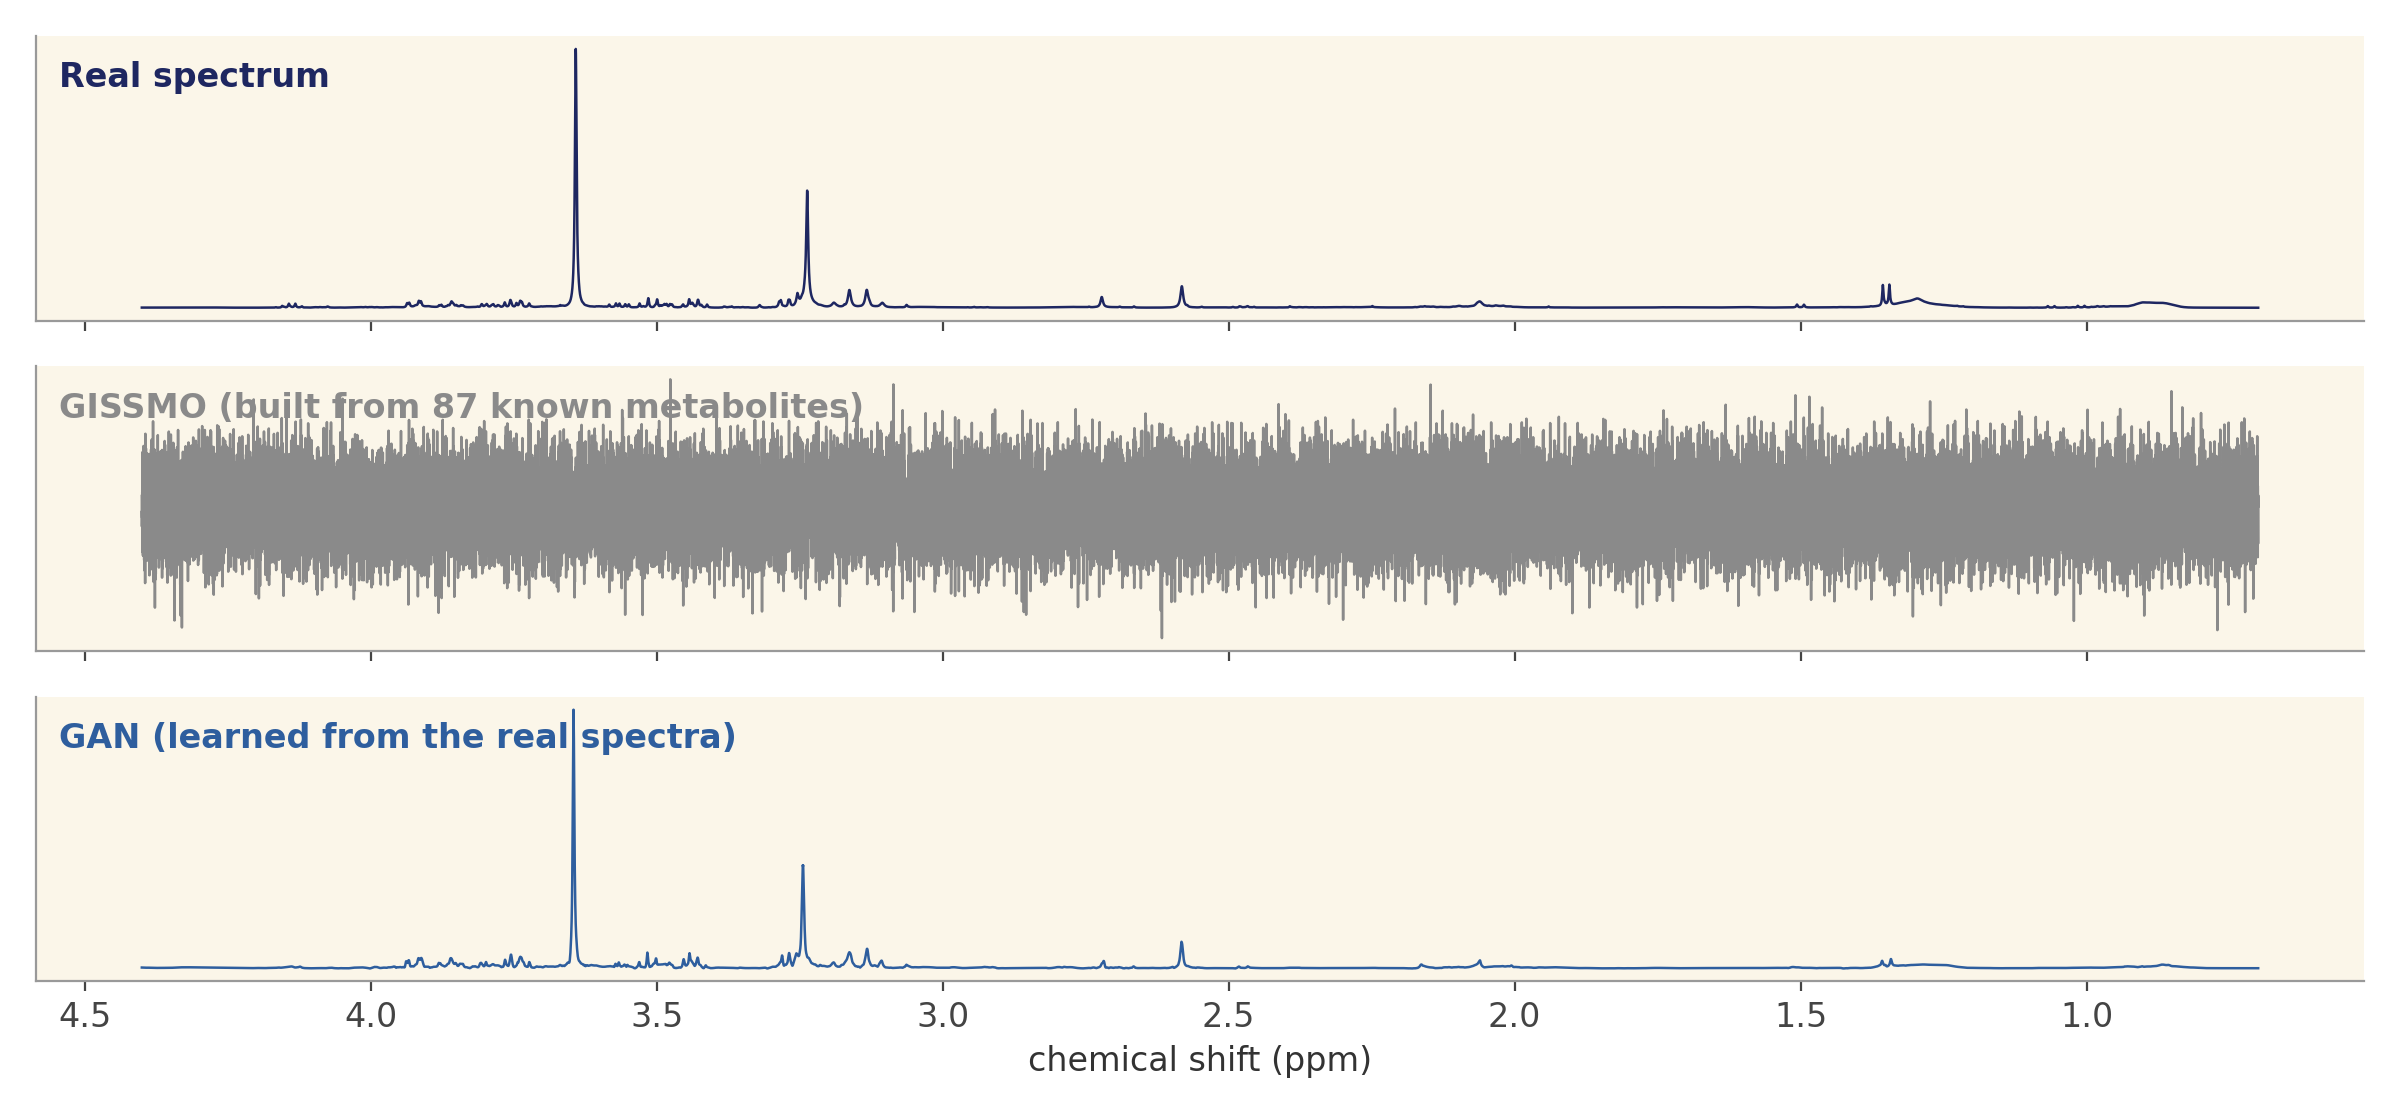
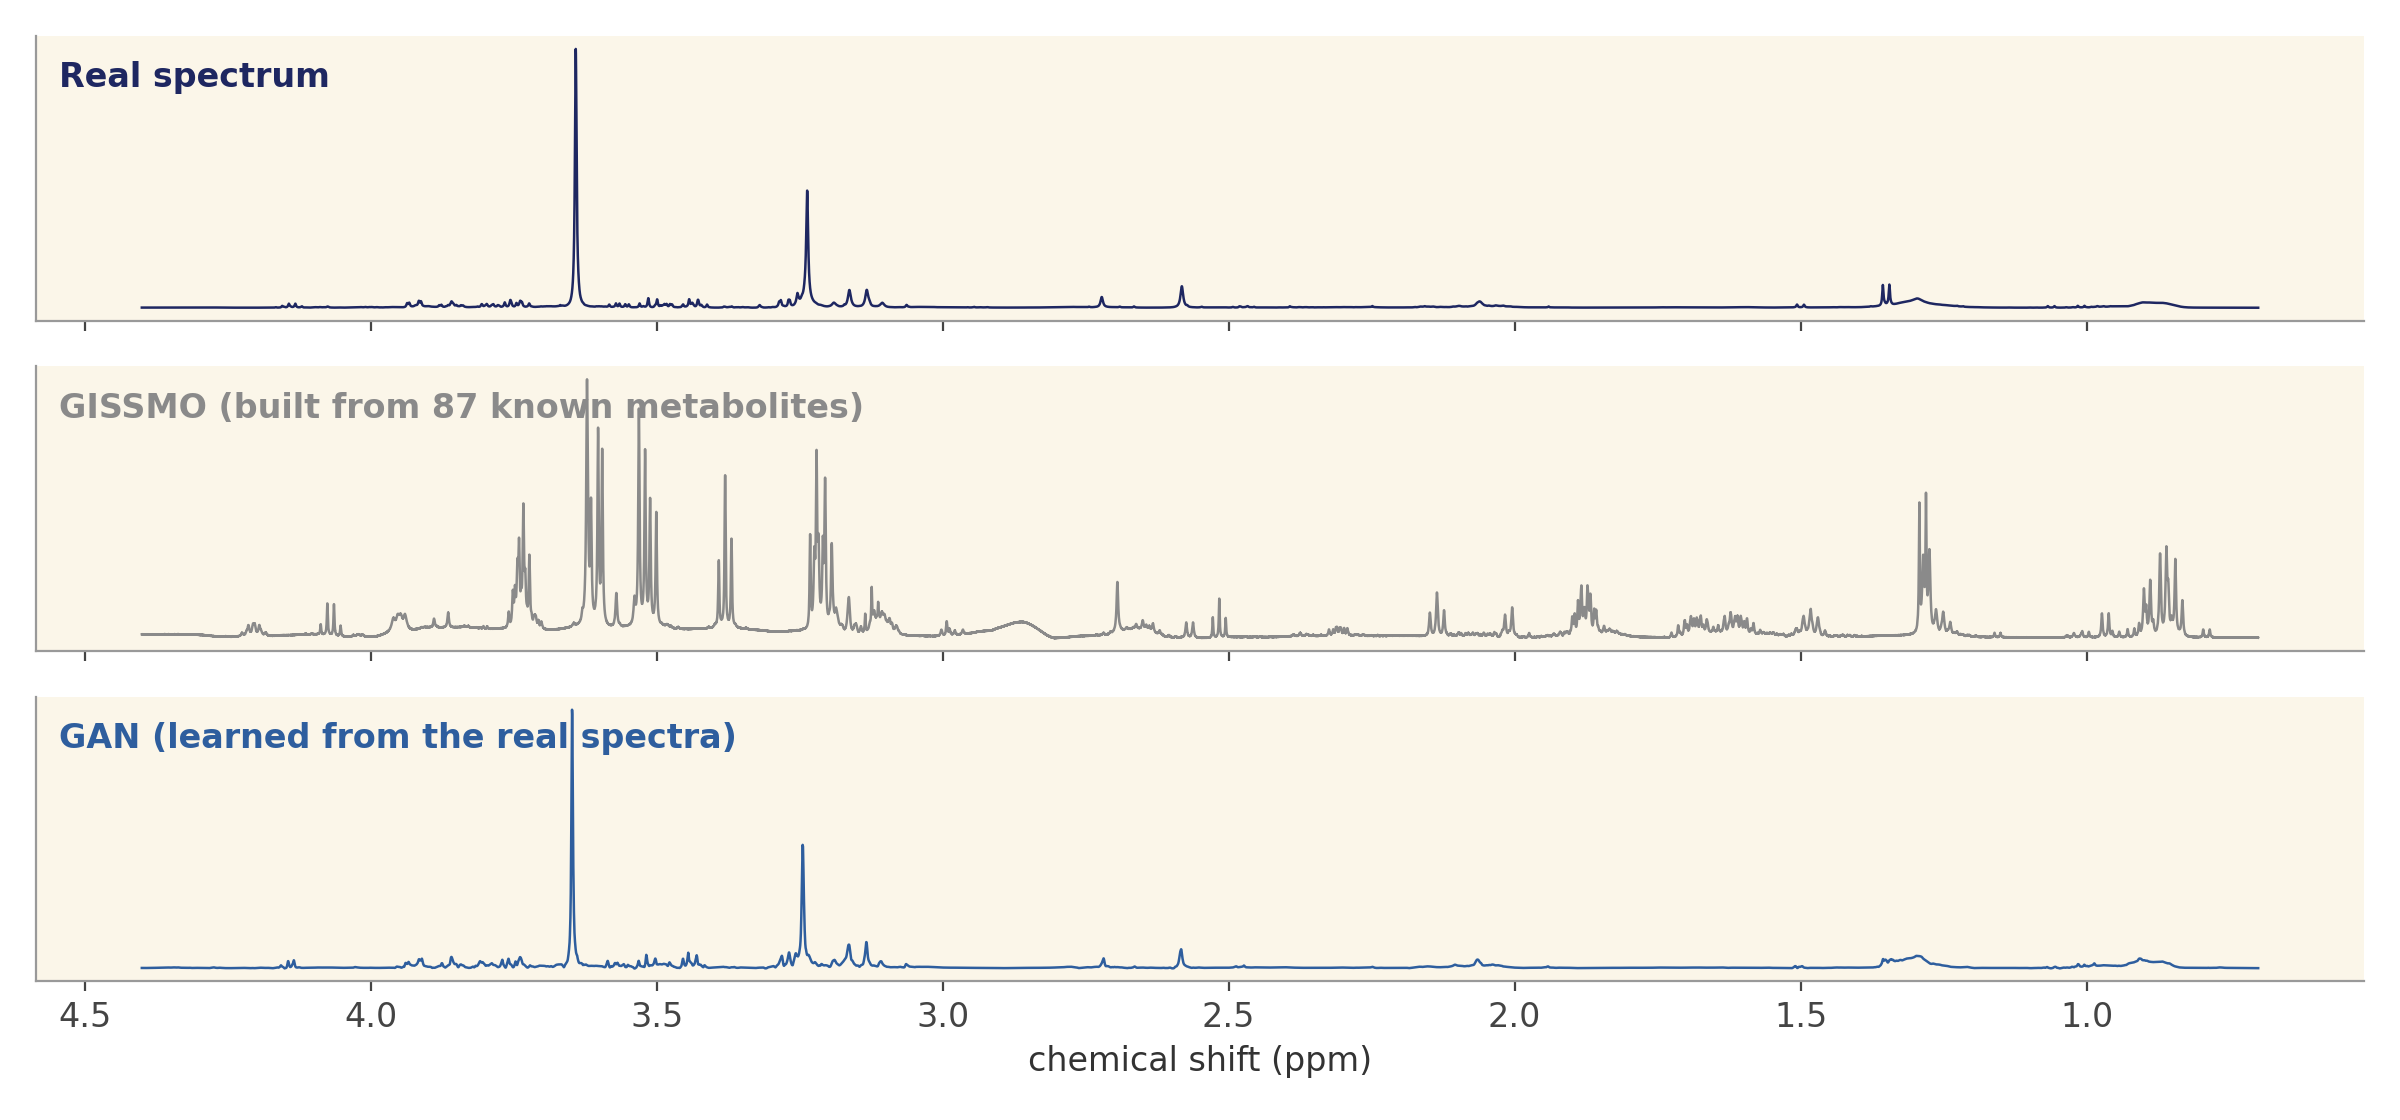
Fix a silent np.interp bug that made every GISSMO synthetic spectrum pure noise
shift() in generate_synthetic_corpus.py called np.interp on the project's
descending ppm axis (10.0 -> -0.5). np.interp requires an increasing xp and does
not check; it returned all zeros, even for a zero shift. Each synthetic spectrum
was therefore the added Gaussian noise rescaled to full height.

Caught while picking a representative sample for the PI figure: every GISSMO
spectrum had a signal-to-noise ratio of 4-5, against 185-7,200 for the GAN.

Fix verified: a +0.02 ppm shift now moves a peak by exactly +0.02 ppm with its
height preserved. Set regenerated and re-validated.

                        before (noise)   corrected   GAN v1
  discriminator AUC        1.000          1.000      0.945
  Wasserstein / IQR         9.72           4.28       1.19
  CH3->CH separation       2.781          2.845      2.788 (real 2.788)

The G3 verdict is unchanged: the corrected set still fails 5.2. But the earlier
figures, including "landmarks exact in joint mode", were measurements of noise
and are withdrawn in the G3, GAN and consolidation write-ups. The GAN's advantage
over the basis is 3.6x in distributional distance, not the 8x stated in a54cff4.
The coverage result, R2 = 0.25, came from a direct NNLS fit that never calls
shift() and stands.

This is the same defect class as the original axis bug: a descending ppm axis
handled by code that assumed an ascending one, failing silently.

The PI figure now shows the median signal-to-noise sample of each set, so
[…]

diff --git a/code/plotting/fig_pi_2026_09_25.py b/code/plotting/fig_pi_2026_09_25.py
@@ -109,12 +109,21 @@ plt.close(fig)
 
 # ---- D: what synthetic spectra look like ---------------------------------
 ppm = np.load(ROOT / "rebuild/pretrain/ppm_axis.npy")
+# show the MEDIAN signal-to-noise sample of each set, not an arbitrary index,
+# so neither route is shown at its best or worst
+_m, _q = (ppm <= 4.4) & (ppm >= 0.7), ppm > 9.5
+def median_snr(path):
+    S = np.load(path, mmap_mode="r")[:200]
+    snr = [np.abs(v[_m]).max() / (v[_q].std() + 1e-12) for v in S]
+    return int(np.argsort(snr)[len(snr) // 2])
+pick_g = median_snr(ROOT / "rebuild/pretrain/synthetic/gissmo_joint_fixed.npy")
+pick_n = median_snr(ROOT / "rebuild/pretrain/synthetic/gan.npy")
 X = np.load(ROOT / "rebuild/pretrain/corpus_train.npy", mmap_mode="r")
 sets = [("Real spectrum", np.asarray(X[4321], dtype=np.float32), INK),
         ("GISSMO (built from 87 known metabolites)",
-         np.load(ROOT / "rebuild/pretrain/synthetic/probe_lip.npy")[3], GREY),
+         np.load(ROOT / "rebuild/pretrain/synthetic/gissmo_joint_fixed.npy")[pick_g], GREY),
         ("GAN (learned from the real spectra)",
-         np.load(ROOT / "rebuild/pretrain/synthetic/gan.npy")[7], BLUE)]
+         np.load(ROOT / "rebuild/pretrain/synthetic/gan.npy")[pick_n], BLUE)]
 m = (ppm <= 4.4) & (ppm >= 0.7)
 fig, axs = plt.subplots(3, 1, figsize=(12, 5.6), sharex=True)
 for ax, (t, y, c) in zip(axs, sets):

diff --git a/code/analysis/synthetic_effective_diversity.py b/code/analysis/synthetic_effective_diversity.py
@@ -19,9 +19,10 @@ an even spread over the twelve it knows. So a high value is necessary, not
 sufficient, evidence of added diversity; a LOW value is conclusive evidence of
 mode collapse. It is reported as a falsifier, not a certificate.
 
-WORKED EXAMPLE OF THE TRAP. The GISSMO linear-combination set scores 8.73 here --
-apparently twice the corpus's 4.09 -- while failing the 5.2 realism gate at
-discriminator AUC 1.000. It resembles no real study, so nearest-centroid
+WORKED EXAMPLE OF THE TRAP. The GISSMO linear-combination set scores 7.10 here --
+apparently far above the corpus's 4.09 -- while failing the 5.2 realism gate at
+discriminator AUC 1.000. (An earlier run scored 8.73 on spectra that were pure
+noise, from a since-fixed np.interp bug; the trap holds either way.) It resembles no real study, so nearest-centroid
 assignment is close to arbitrary and the entropy is high for the worst possible
 reason. THIS NUMBER IS ONLY MEANINGFUL FOR A SET THAT HAS ALREADY PASSED 5.2.
 Run validate_synthetic.py first; if the discriminator separates the set, stop.

diff --git a/code/synthesis/generate_synthetic_corpus.py b/code/synthesis/generate_synthetic_corpus.py
@@ -71,7 +71,18 @@ def fit_coefficients(X, B, n_fit, rng, factor=32):
 
 
 def shift(y, d_ppm, ppm):
-    """Shift a spectrum by d_ppm, by interpolation on the ppm axis."""
+    """Shift a spectrum by d_ppm, by interpolation on the ppm axis.
+
+    np.interp REQUIRES an increasing xp and does not check: on this project's
+    descending axis (10.0 -> -0.5) it silently returned all zeros, even for a
+    zero shift. Every synthetic spectrum generated before this fix was therefore
+    pure added noise rescaled to full height, and the GISSMO 5.2 results computed
+    from them (AUC 1.000, Wasserstein 9.72) measured noise, not metabolite
+    mixtures. Interpolate on the reversed, ascending axis instead.
+    """
+    if ppm[0] > ppm[-1]:
+        return np.interp(ppm[::-1], (ppm + d_ppm)[::-1], y[::-1],
+                         left=0.0, right=0.0)[::-1]
     return np.interp(ppm, ppm + d_ppm, y, left=0.0, right=0.0)
 
 

diff --git a/docs/PHASE5_G3_gan.md b/docs/PHASE5_G3_gan.md
@@ -1,5 +1,17 @@
 # Gate G3, generative route: a GAN gets far closer, and still fails the gate
 
+
+> **Correction (2026-09-25).** The synthetic spectra first reported for GISSMO were
+> pure noise. `shift()` in `generate_synthetic_corpus.py` called `np.interp` on
+> the project's descending ppm axis, which `np.interp` silently mishandles, and
+> returned all zeros; each spectrum was then the added noise rescaled to full
+> height. The fix was verified (a +0.02 ppm shift now moves a peak by exactly
+> +0.02 ppm with height preserved) and the set regenerated. The corrected numbers
+> are below. **The verdict is unchanged** — the corrected set still fails 5.2 —
+> but the earlier figures (Wasserstein 9.72, "landmarks exact") were measurements
+> of noise and are withdrawn. The coverage result, R² = 0.25, came from a direct
+> NNLS fit that never calls `shift()` and stands.
+
 ## Result
 
 WGAN-GP, 300 epochs on the 8,545-spectrum training corpus, 4,000 spectra
@@ -8,14 +20,14 @@ generated. Put through the **same** Phase 5.2 gate as the GISSMO set.
 | test | GISSMO basis | **GAN** | real / target |
 |---|---|---|---|
 | discriminator AUC, real vs synthetic | 1.000 | **0.945** (±0.067) | 0.5 |
-| median per-bin Wasserstein / IQR | 9.72 | **1.19** | 0.053 floor |
-| bins below 0.25 | 0.0% | **11.1%** | — |
+| median per-bin Wasserstein / IQR | 4.28 | **1.19** | 0.053 floor |
+| bins below 0.25 | 0.6% | **11.1%** | — |
 | bins within the 0.053 floor | 0.0% | 0.0% | — |
-| lactate CH₃→CH separation | 2.781 | **2.788** | 2.788 real |
-| effective studies | (8.73, invalid) | **4.71** | 4.09 corpus |
+| lactate CH₃→CH separation | 2.845 | **2.788** | 2.788 real |
+| effective studies | (7.10, invalid) | **4.71** | 4.09 corpus |
 
 **The GAN solves the problem GISSMO had.** Landmarks match the real corpus
-exactly, and the distributional distance is 8× smaller than the metabolite basis
+exactly, and the distributional distance is 3.6× smaller than the metabolite basis
 managed. Learning the whole signal rather than a 25%-coverage basis was the right
 fix for the realism failure.
 
@@ -32,7 +44,7 @@ Its composition mirrors the corpus: MTBLS798 takes 51% of generated spectra
 against 57% of real ones.
 
 This measurement is valid here in a way it was not for GISSMO. The GISSMO set's
-8.73 was high because those spectra resembled no study. The GAN set is close
+7.10 is high because those spectra resembled no study. The GAN set is close
 enough to real (AUC 0.945, not 1.000; landmarks exact) that nearest-centroid
 assignment means something.
 

diff --git a/docs/PHASE5_G3_verdict.md b/docs/PHASE5_G3_verdict.md
@@ -6,6 +6,18 @@ Research plan §5.2: *"Synthetic data that fails these should not be trained on,
 whatever it does to the metric."* It failed. No augmented pretraining was run, and
 that is the finding, not an omission.
 
+
+> **Correction (2026-09-25).** The synthetic spectra first reported here were
+> pure noise. `shift()` in `generate_synthetic_corpus.py` called `np.interp` on
+> the project's descending ppm axis, which `np.interp` silently mishandles, and
+> returned all zeros; each spectrum was then the added noise rescaled to full
+> height. The fix was verified (a +0.02 ppm shift now moves a peak by exactly
+> +0.02 ppm with height preserved) and the set regenerated. The corrected numbers
+> are below. **The verdict is unchanged** — the corrected set still fails 5.2 —
+> but the earlier figures (Wasserstein 9.72, "landmarks exact") were measurements
+> of noise and are withdrawn. The coverage result, R² = 0.25, came from a direct
+> NNLS fit that never calls `shift()` and stands.
+
 ## What was built
 
 GISSMO metabolite basis, rebuilt on the corpus ppm axis (the existing basis was
@@ -26,12 +38,14 @@ study contained -- the property a trained generator cannot have).
 | test | synthetic | reference |
 |---|---|---|
 | discriminator AUC, real vs synthetic | **1.000** | 0.5 = indistinguishable |
-| median per-bin Wasserstein / IQR | **9.72** | 0.053 within-corpus floor |
+| median per-bin Wasserstein / IQR | **4.28** | 0.053 within-corpus floor |
 | bins within that floor | **0.0%** | — |
-| lactate CH₃→CH separation | 2.781 | 2.780 expected |
+| lactate CH₃→CH separation | 2.845 | 2.788 real |
 
-The chemistry is right and the realism is not. Landmark positions are essentially
-exact in `joint` mode, so the basis is correctly built and correctly placed.
+Neither the realism nor the landmark positions match. (The basis itself is
+correctly placed -- its individual metabolites sit within 0.006 ppm of literature,
+commit 553c2b9 -- so the mixture's landmark drift comes from how 94 overlapping
+components combine, not from a misplaced axis.)
 (`marginal` mode shifted landmarks by ~0.1 ppm -- independent sampling produces
 chemically impossible mixtures -- which is itself a limit on the one advantage
 this route had over a generator.)

diff --git a/docs/CONSOLIDATION.md b/docs/CONSOLIDATION.md
@@ -51,7 +51,7 @@ G3  does synthetic data help?
   |             validation gate (discriminator AUC 1.000).
   |             Per plan 5.2, not trained on.
   |             A WGAN-GP gets far closer (AUC 0.945, Wasserstein
-  |             8x smaller, landmarks exact) but still fails 5.2,
+  |             3.6x smaller, landmarks exact) but still fails 5.2,
   |             and resamples the corpus: effective 4.71 vs 4.09.
   |   -> TOOK: "no", by both routes                           [G3 answered]
   v
@@ -105,7 +105,7 @@ sparse where real ones are dense and a discriminator separates them perfectly.
 This is a limit of the public basis, not a proof about synthetic data in general.
 
 A WGAN-GP, the whiteboard's other route, fixes the realism problem the basis had —
-landmarks exact, distributional distance 8× smaller — but is still detected at
+landmarks exact, distributional distance 3.6× smaller — but is still detected at
 discriminator AUC 0.945. And it resamples rather than extends the corpus: the
 generated set has an effective study count of 4.71 against the corpus's 4.09.
 Even a GAN that passed validation would add rows, which G2 showed saturate below
